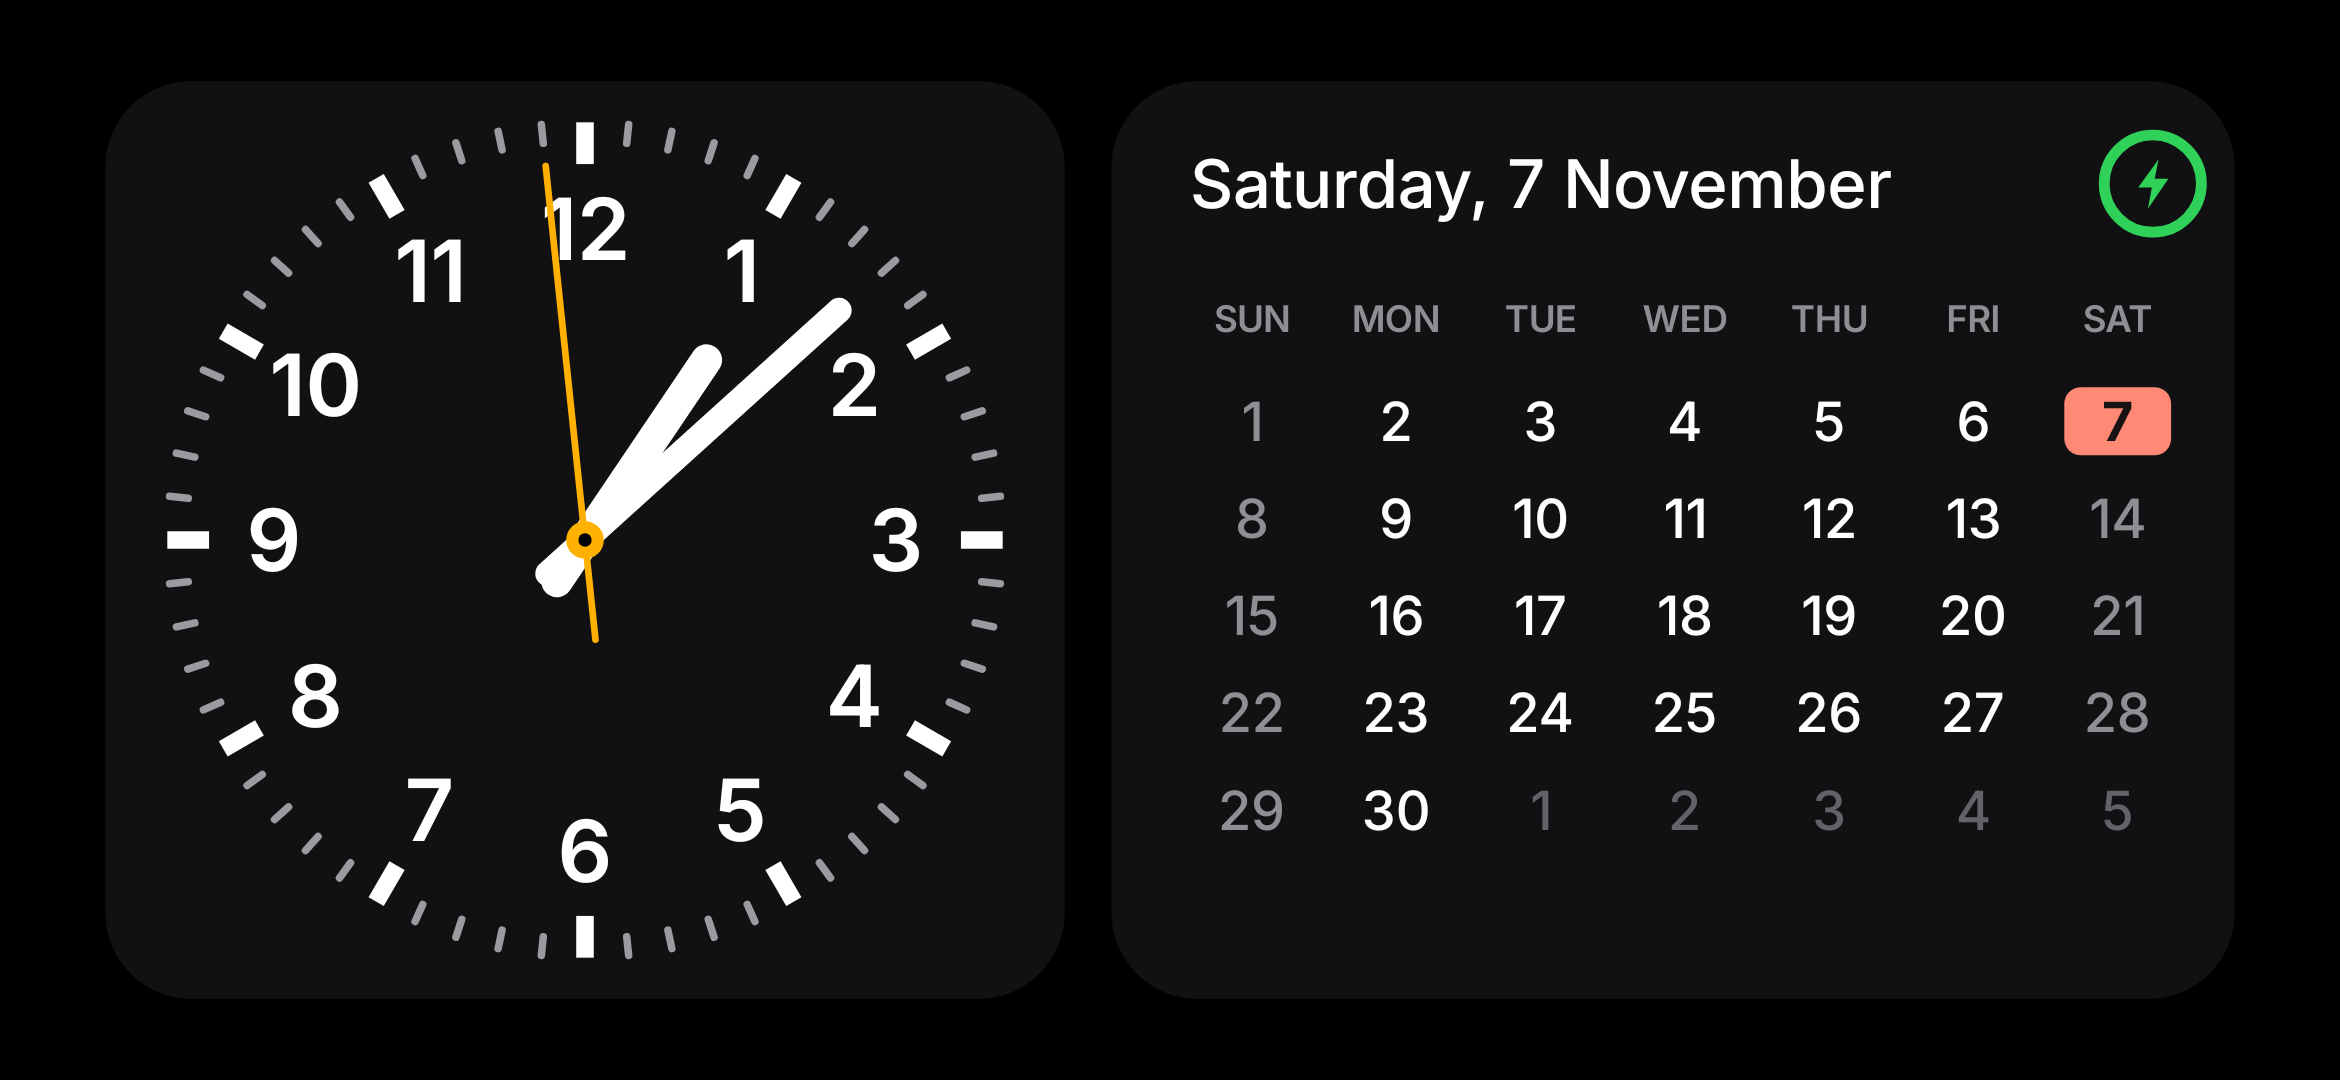
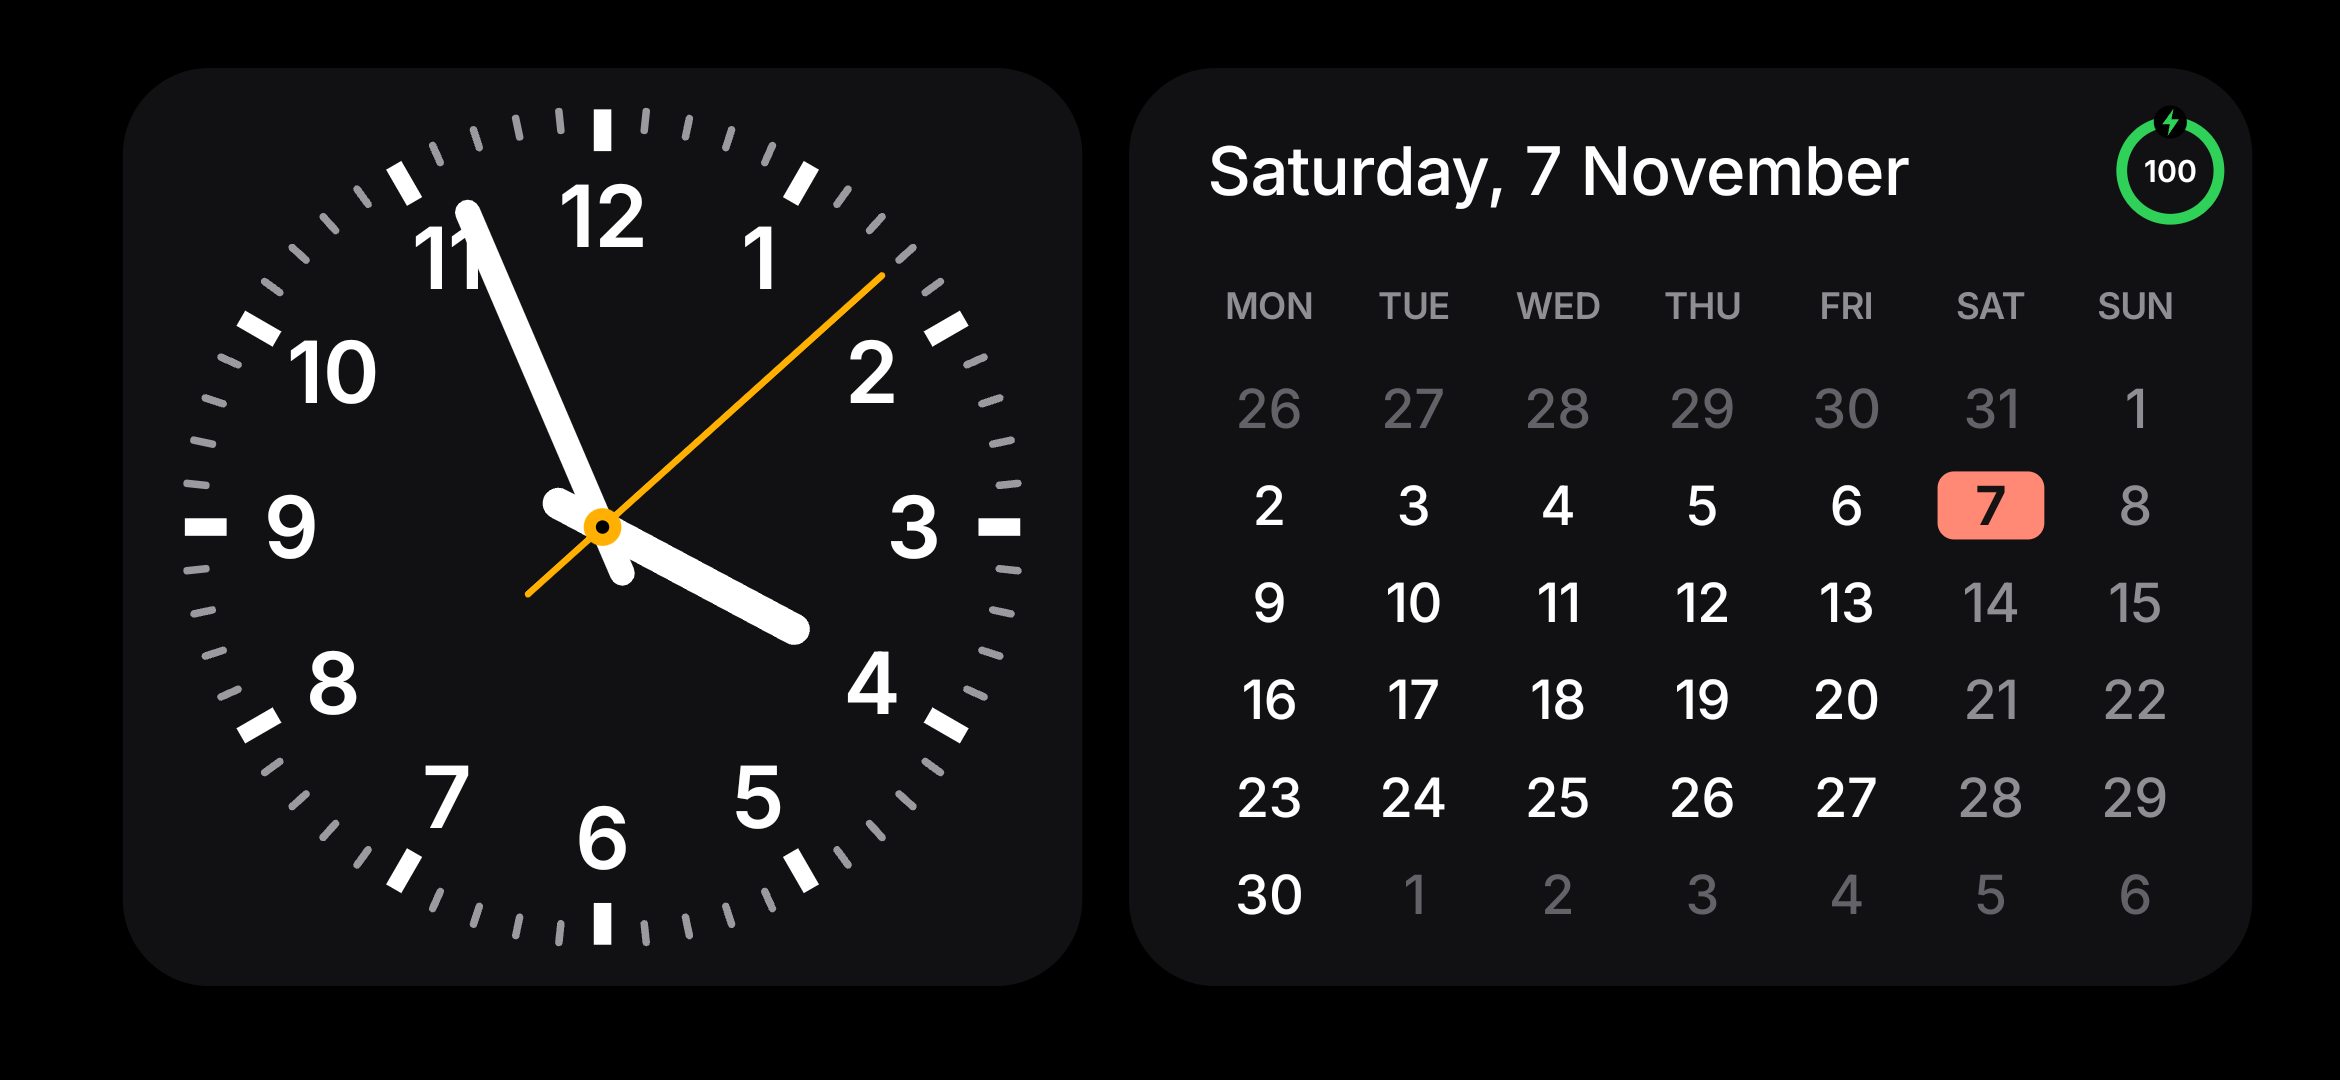
docs: Replace clock examples with live Samsung screenshots
- Capture Digital, Float and boxed calendar from the connected phone
- Record physical capture provenance and preserve separate integration limits

diff --git a/README.md b/README.md
@@ -18,7 +18,7 @@ Built with Java and Android Canvas, with an integrated system screensaver and an
 
 Tall numerals with a compact date, temperature, and next-alarm area. Fixed digit cells keep the composition stable as the time changes, including the transition from a one-digit to a two-digit hour.
 
-![Digital clock with green numerals and date and temperature on the right](docs/assets/clock-digital.png)
+![Digital clock with amber numerals, date, temperature, and next alarm](docs/assets/clock-digital.png)
 
 ### Float
 
@@ -32,7 +32,7 @@ A white analog dial and month view in two rounded box frames. The current date r
 
 ![Boxed analog clock beside a month calendar with the current date highlighted](docs/assets/clock-calendar.png)
 
-*Captured on 7 November 2026 using the app renderer in an Android API 37 emulator. Weather is sample data. These images demonstrate layout, not physical-device acceptance.*
+*Captured directly from the connected Samsung SM-S926B on 7 November 2026 using ADB screencap while navigating the running display. These are unmodified phone screenshots with the device’s current time, preferences, and displayed information; no debug fixtures were injected for this capture.*
 
 ## What it does
 
@@ -149,7 +149,7 @@ Sources live in [`app/src/main/java/com/rohan/standby`](app/src/main/java/com/ro
 The latest recorded full verification passed **146 JVM tests**, assembled the debug APK, and completed debug lint with **44 warnings**. Following the thumbnail-clipping repair, the APK was rebuilt and the app interface and all 44 looks were captured on an API 37 emulator without an observed fatal exception during capture.
 
 - Emulator screenshots cover rendered layouts. Music, weather, call, and alarm examples use fixtures or synthetic sessions/notifications.
-- Physical Samsung validation of this latest iteration, real incoming calls, vendor music behavior, and background activation remain pending.
+- The three featured clock looks were visually inspected and captured on the physical Samsung SM-S926B. Real incoming calls, vendor music behavior, and background activation still require separate validation.
 - Android 9 is the minimum SDK, but end-to-end physical validation on Android 9 has not been completed.
 - Media seeking and alert actions depend on what the originating app exposes. Missing access or unavailable data can produce an empty state.
 - Debug capture utilities can clear preferences and seed test data. Run them only on disposable test installs.

diff --git a/docs/assets/README.md b/docs/assets/README.md
@@ -10,12 +10,12 @@
 
 ## Actual frame examples
 
-These are unmodified app-renderer captures from the API 37 emulator session on 7 November 2026:
+These are unmodified screenshots captured directly from the connected Samsung SM-S926B on 7 November 2026 using `adb shell screencap -p`, then pulled over ADB. The running display was navigated using ordinary swipes; no preview activity, preference reset, or sample weather injection was used.
 
-| File | Source capture | Frame |
-| --- | --- | --- |
-| `clock-digital.png` | `00_0.png` | Digital |
-| `clock-float.png` | `00_1.png` | Float |
-| `clock-calendar.png` | `01_1.png` | Dial / Widgets (analog and calendar composition) |
+| File | Frame |
+| --- | --- |
+| `clock-digital.png` | Digital, amber, 24-hour time |
+| `clock-float.png` | Float, multicolor, 24-hour time |
+| `clock-calendar.png` | Boxed analog and calendar composition |
 
-The captures use sample weather. Full local capture sets are excluded from Git; the three examples are copied here so the GitHub README has durable repository-relative image links.
+These replace the earlier emulator captures. Device settings and displayed weather were retained. Screenshot inspection covers these three layouts, not call handling or automatic activation acceptance.
